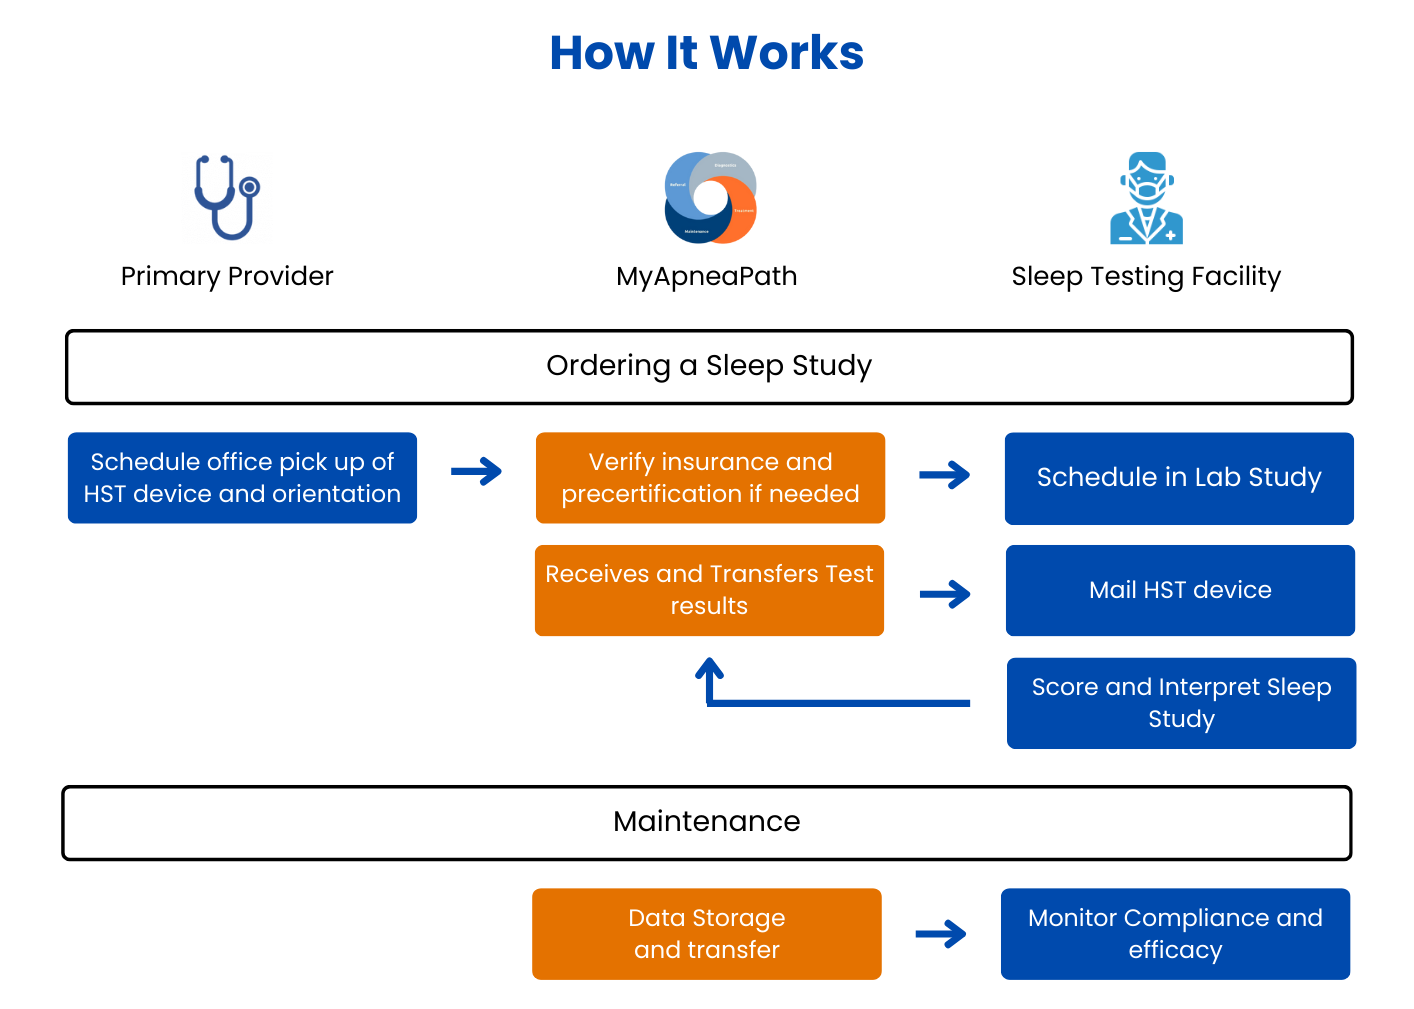
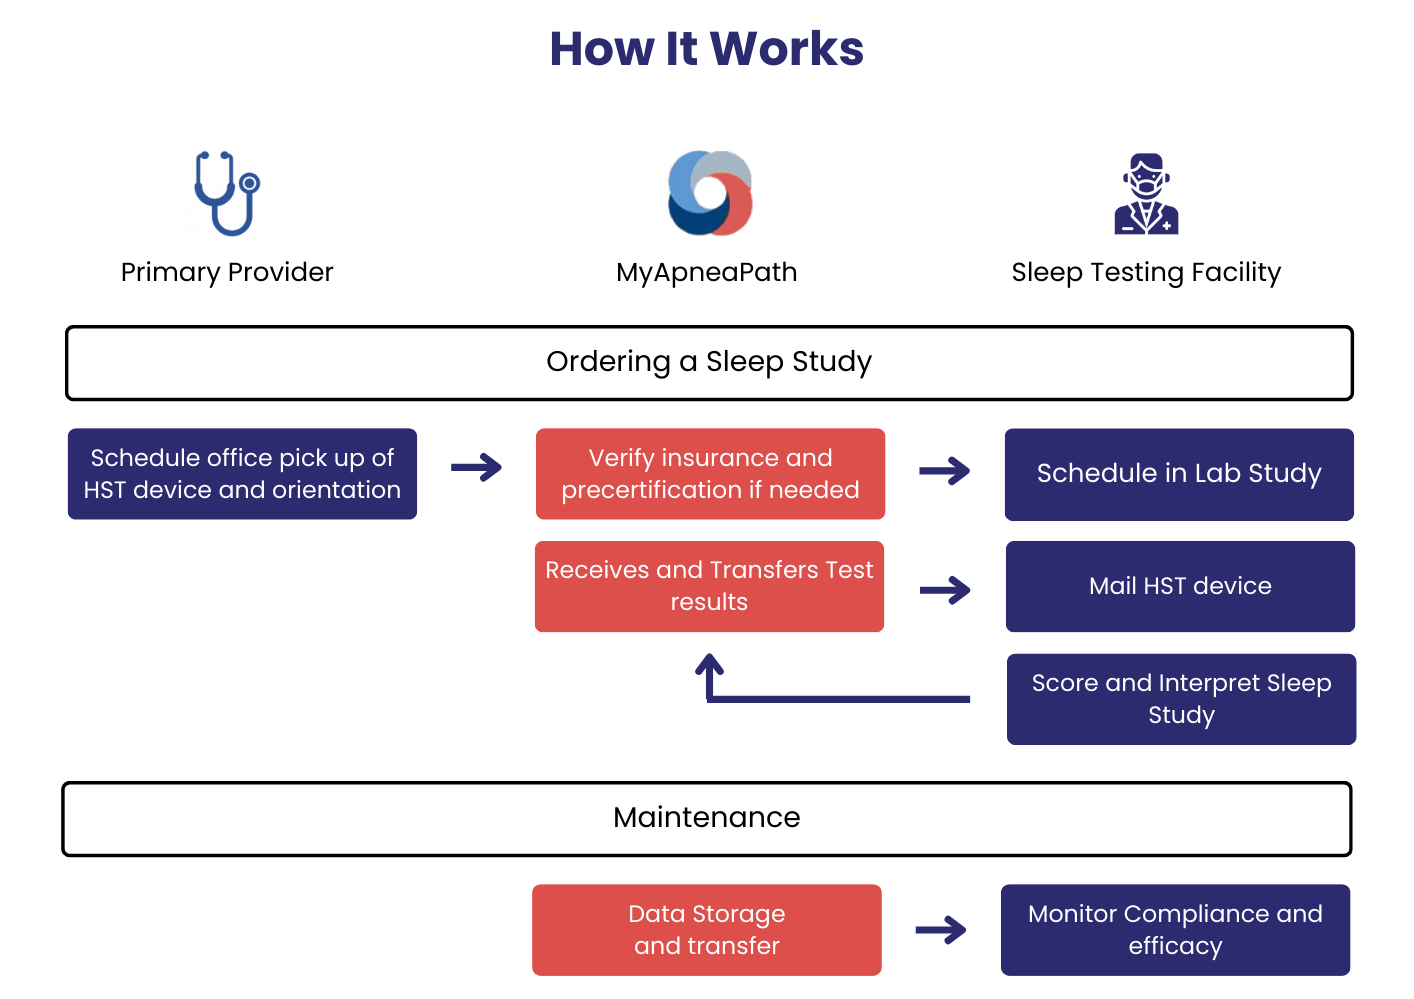
Changes Color on How It Works Section

diff --git a/assets/css/main.css b/assets/css/main.css
@@ -1308,8 +1308,8 @@ section,
 }
 
 .services .service-item:hover {
-  background: var(--accent-color);
-  border-color: var(--accent-color);
+  background: var(--surface-color-2);
+  border-color: var(--surface-color-2);
 }
 
 .services .service-item:hover .icon {
@@ -1317,7 +1317,7 @@ section,
 }
 
 .services .service-item:hover .icon i {
-  color: var(--accent-color);
+  color: var(--surface-color-2);
 }
 
 .services .service-item:hover .icon::before {
@@ -1428,8 +1428,8 @@ Other Layout Service
 }
 
 .service-card:hover {
-  background: var(--accent-color);
-  border-color: var(--accent-color);
+  background: var(--surface-color-2);
+  border-color: var(--surface-color-2);
 }
 
 .service-card:hover .icon {
@@ -1437,7 +1437,7 @@ Other Layout Service
 }
 
 .service-card:hover .icon i {
-  color: var(--accent-color);
+  color: var(--surface-color-2);
 }
 
 .service-card:hover .icon::before {
@@ -1493,7 +1493,7 @@ Other Layout Service
 /* Clicked Service ------------------------------*/
 
 .services-container .clicked-service {
-  background-color: #2D2B70;
+  background-color: #DC4F4B;
   border: 1px solid #ddd;
   border-radius: 8px;
   padding: 20px;
@@ -1519,7 +1519,7 @@ Other Layout Service
 }
 
 .services-container .clicked-service .icon i {
-  color: var(--accent-color);
+  color: var(--surface-color-2);
   font-size: 20px;
   transition: ease-in-out 0.3s;
 }
